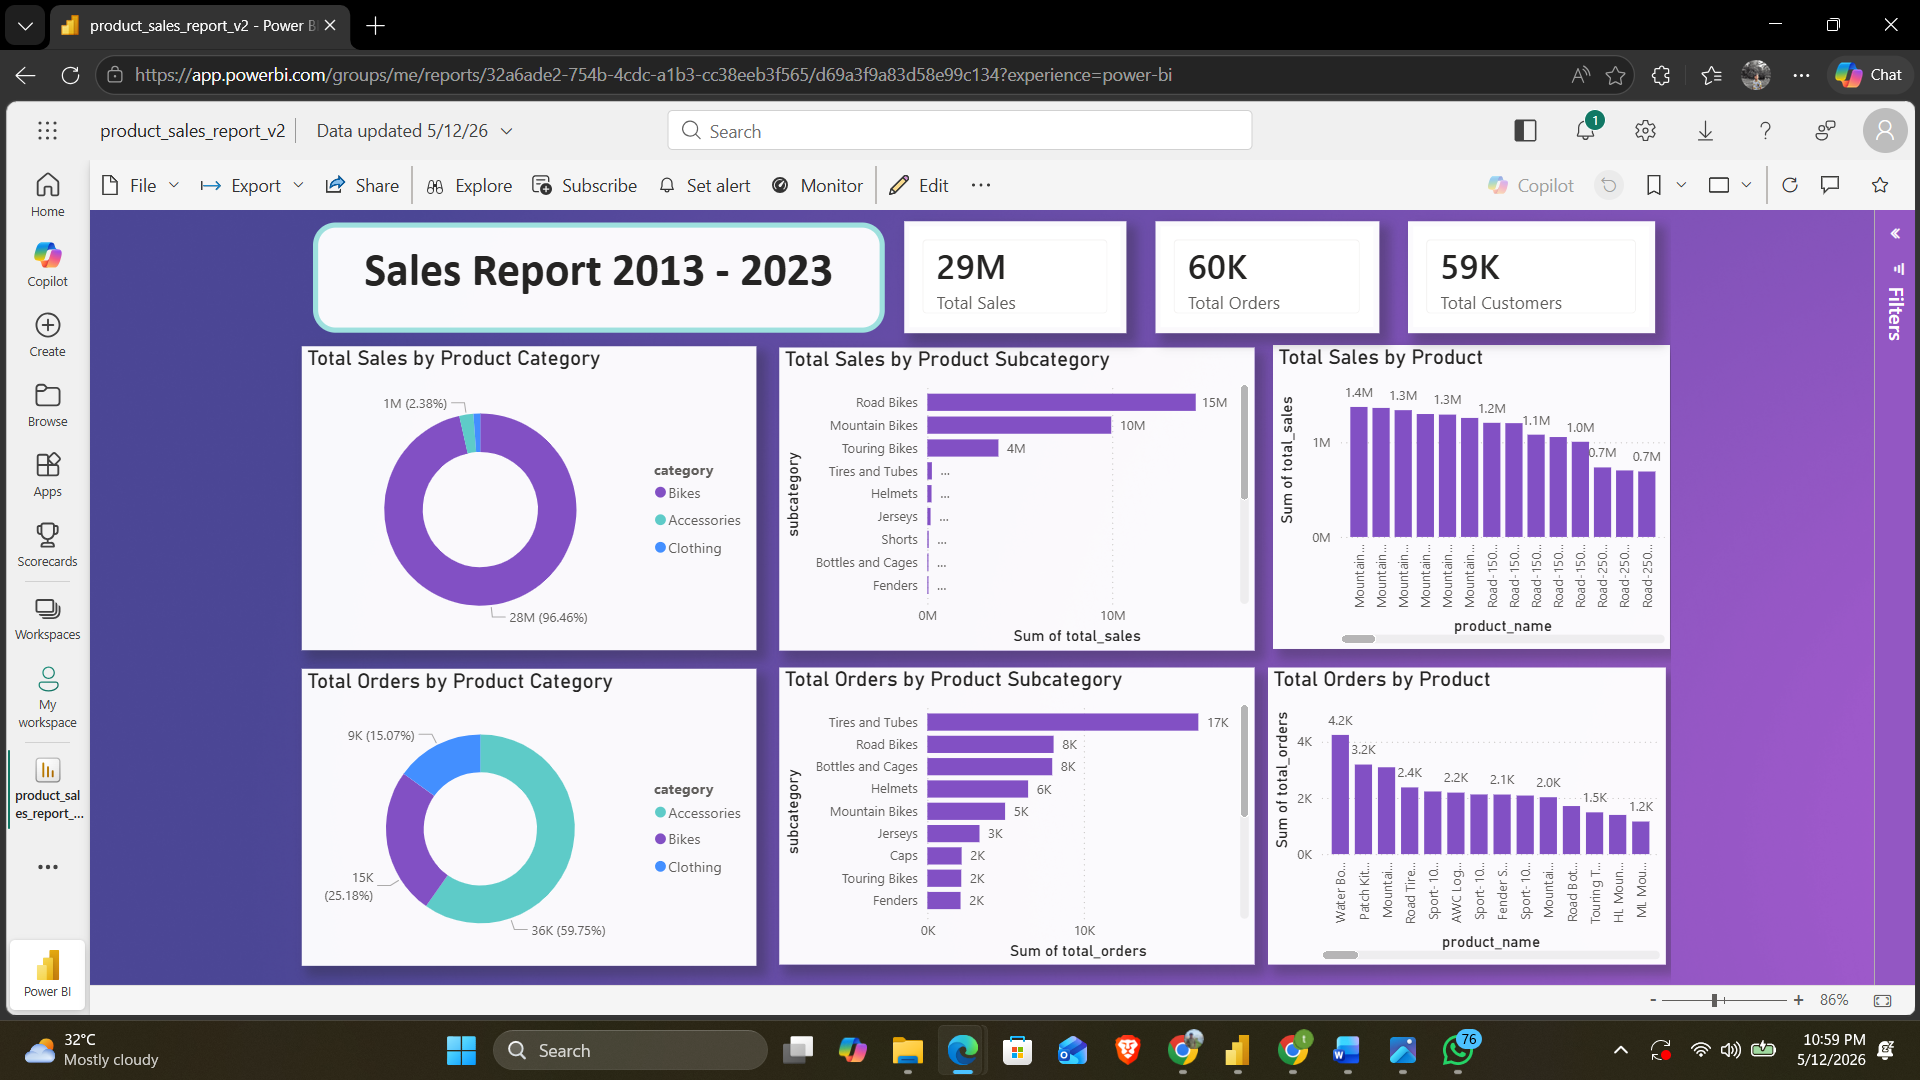
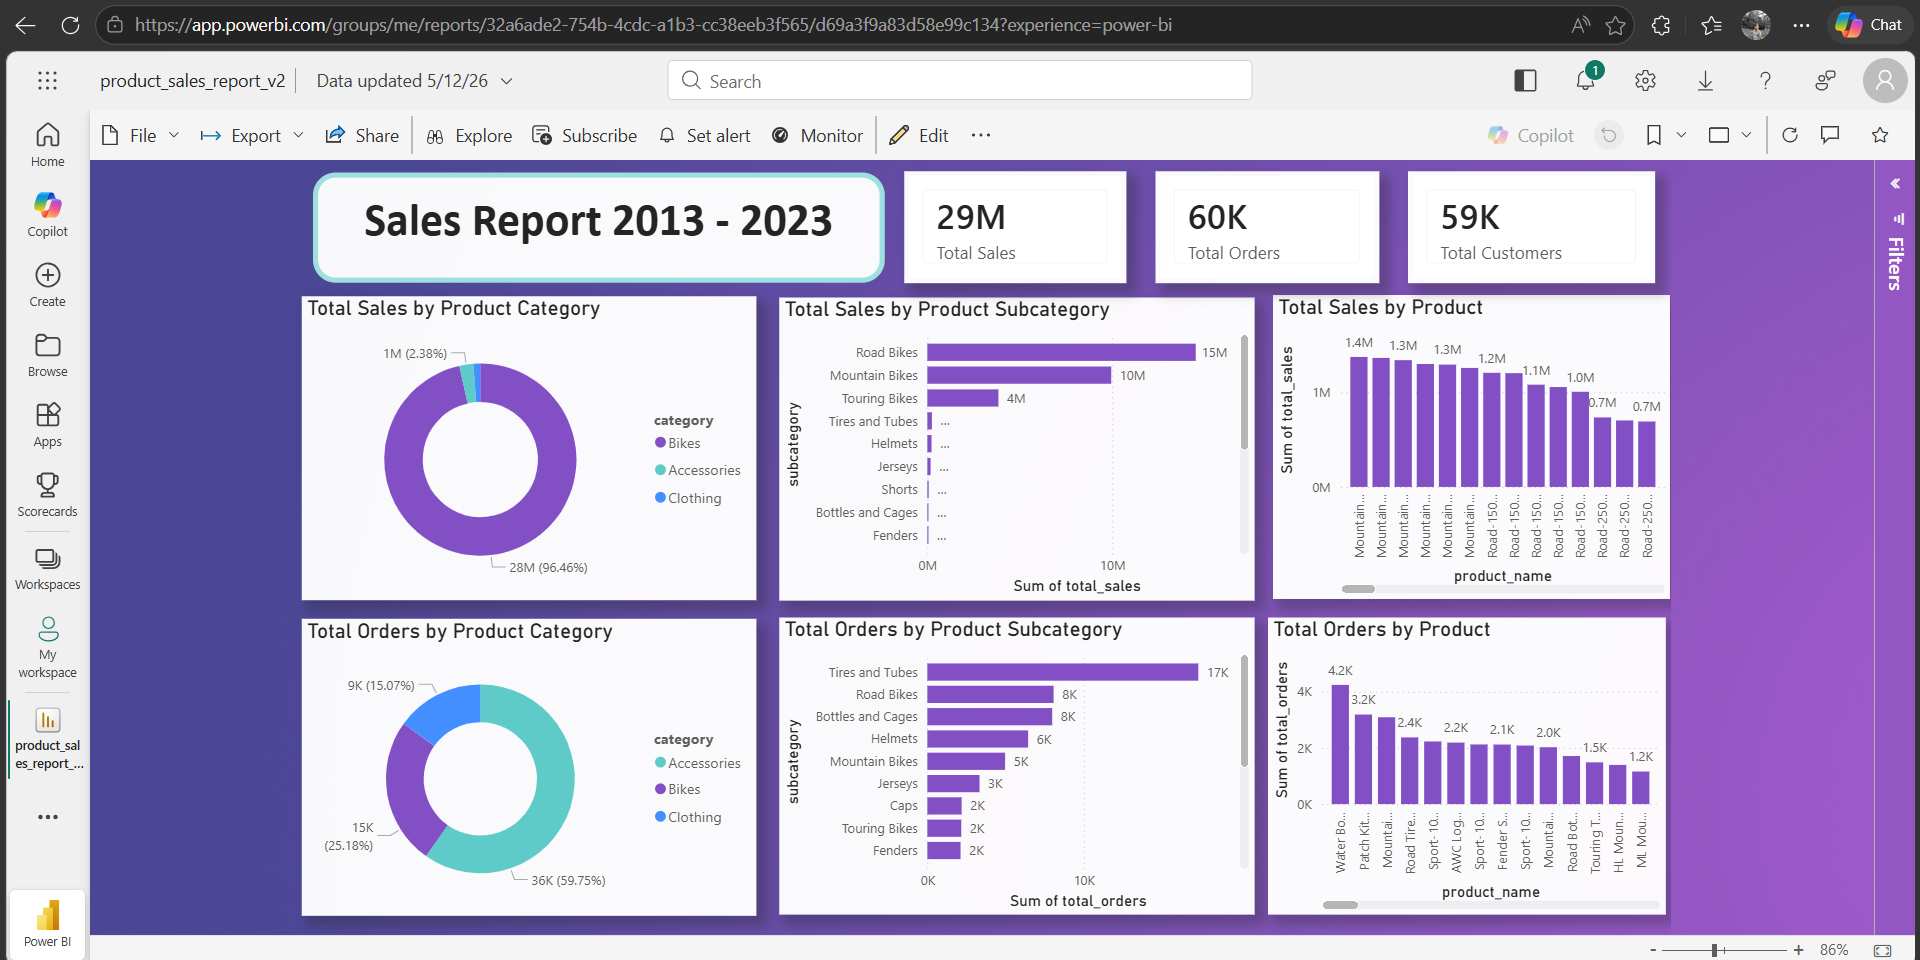
Update sales report image format and enhance README for mobile display

diff --git a/README.md b/README.md
@@ -210,7 +210,7 @@ Use Power BI Desktop to connect to the `DataWarehouse` SQL Server database, load
 
 ![Sales Report Desktop](docs/sales_report.png)
 
-![Sales Report Mobile](docs/sales_report_mobile.jpeg)
+<img src="docs/sales_report_mobile.jpeg" alt="Sales Report Mobile" width="360" />
 
 ## Notes
 